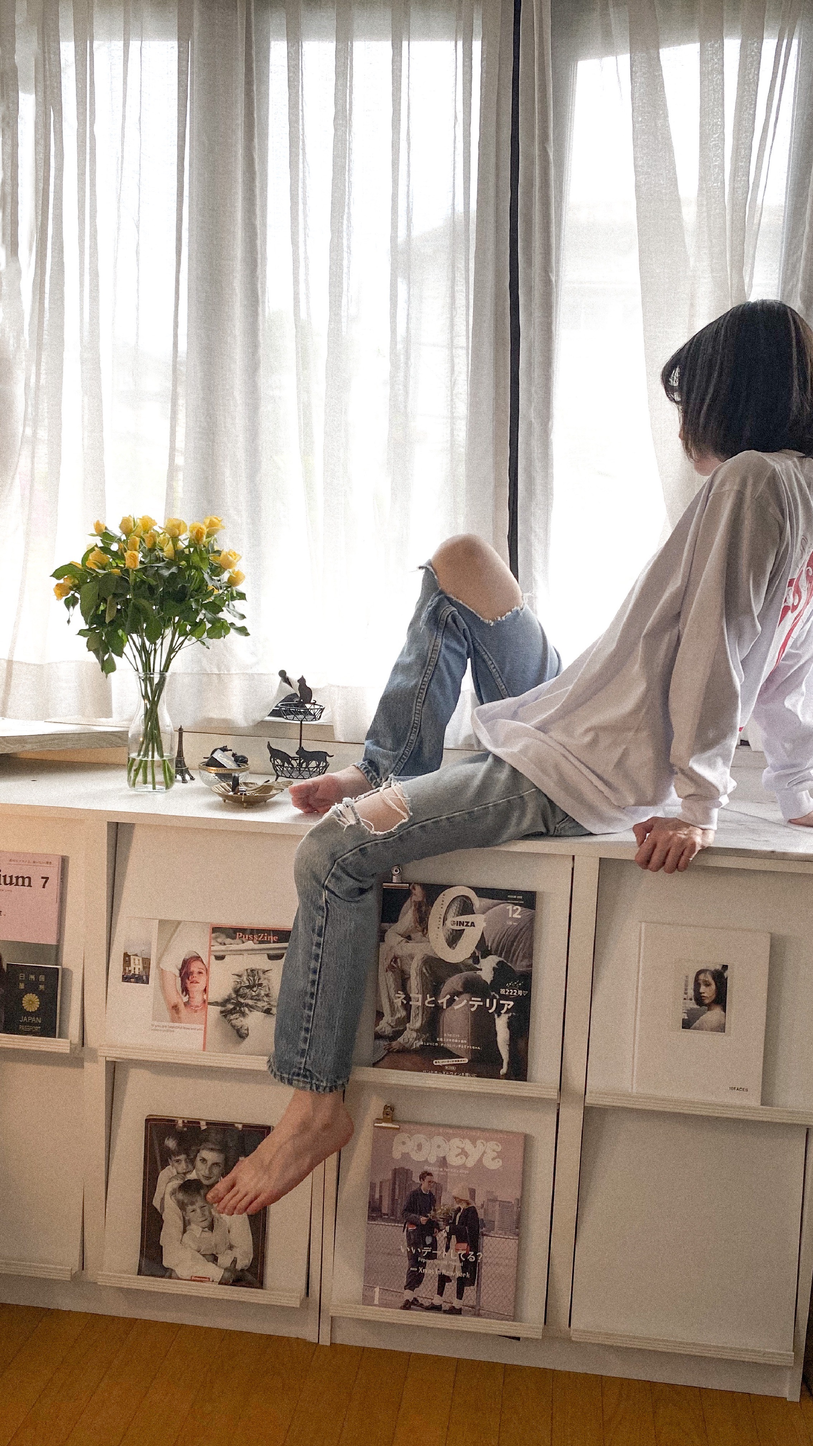
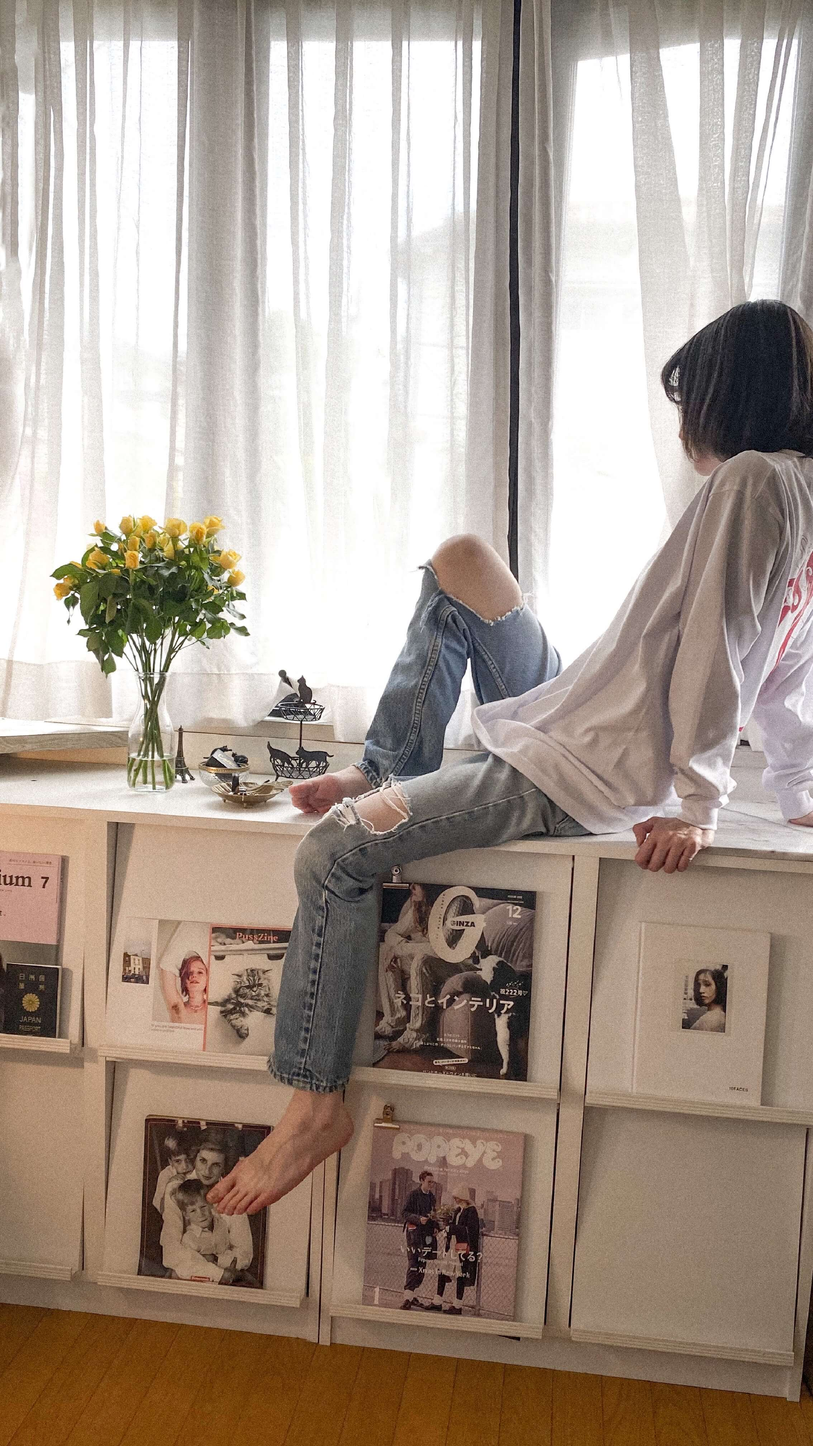
写真サイズ縮小

diff --git a/js/data/top_slider_sp.js b/js/data/top_slider_sp.js
@@ -1,34 +1,34 @@
 var top_slider_sp = [
   { 
     "url": "https://dec16.official.ec/items/32936441",
-    "top": "./data/products/top/sp/jyuroku/dec1.jpg",
-    "photo": "./data/products/tshirts/jyuroku/jyuroku_black_1.png",
+    "top": "./data/products/top/sp/juroku/dec1.jpg",
+    "photo": "./data/products/tshirts/juroku/juroku_black_1.png",
     "season": "2020 SS",
-    "name": "JYUROKU",
+    "name": "JUROKU",
     "price": "4,500JPY"
   },
   {
     "url": "https://dec16.official.ec/items/32936441",
-    "top": "./data/products/top/sp/jyuroku/dec2.jpg",
-    "photo": "./data/products/tshirts/jyuroku/jyuroku_black_1.png",
+    "top": "./data/products/top/sp/juroku/dec2.jpg",
+    "photo": "./data/products/tshirts/juroku/juroku_black_1.png",
     "season": "2020 SS",
-    "name": "JYUROKU",
+    "name": "JUROKU",
     "price": "4,500JPY"
   },
   { 
     "url": "https://dec16.official.ec/items/32936441",
-    "top": "./data/products/top/sp/jyuroku/dec3.jpg",
-    "photo": "./data/products/tshirts/jyuroku/jyuroku_black_1.png",
+    "top": "./data/products/top/sp/juroku/dec3.jpg",
+    "photo": "./data/products/tshirts/juroku/juroku_black_1.png",
     "season": "2020 SS",
-    "name": "JYUROKU",
+    "name": "JUROKU",
     "price": "4,500JPY"
   },
   {
     "url": "https://dec16.official.ec/items/32936441",
-    "top": "./data/products/top/sp/jyuroku/dec4.jpg",
-    "photo": "./data/products/tshirts/jyuroku/jyuroku_black_1.png",
+    "top": "./data/products/top/sp/juroku/dec4.jpg",
+    "photo": "./data/products/tshirts/juroku/juroku_black_1.png",
     "season": "2020 SS",
-    "name": "JYUROKU",
+    "name": "JUROKU",
     "price": "4,500JPY"
   },
   { 

diff --git a/js/data/top_slider_pc.js b/js/data/top_slider_pc.js
@@ -1,18 +1,18 @@
 var top_slider_pc = [
   { 
     "url": "https://dec16.official.ec/items/32936441",
-    "top": "./data/products/top/pc/jyuroku/dec1.jpg",
-    "photo": "./data/products/tshirts/jyuroku/jyuroku_black_1.png",
+    "top": "./data/products/top/pc/juroku/dec1.jpg",
+    "photo": "./data/products/tshirts/juroku/juroku_black_1.png",
     "season": "2020 SS",
-    "name": "JYUROKU",
+    "name": "JUROKU",
     "price": "4,500JPY"
   },
   {
     "url": "https://dec16.official.ec/items/32936441",
-    "top": "./data/products/top/pc/jyuroku/dec2.jpg",
-    "photo": "./data/products/tshirts/jyuroku/jyuroku_black_1.png",
+    "top": "./data/products/top/pc/juroku/dec2.jpg",
+    "photo": "./data/products/tshirts/juroku/juroku_black_1.png",
     "season": "2020 SS",
-    "name": "JYUROKU",
+    "name": "JUROKU",
     "price": "4,500JPY"
   },
   { 

diff --git a/js/data/item.js b/js/data/item.js
@@ -9,15 +9,15 @@
 var item = [
   {
     "url": "https://dec16.official.ec/items/32936441",
-    "photo": "./data/products/tshirts/jyuroku/jyuroku_black_1.png",
-    "name": "JYUROKU SHIRTS",
+    "photo": "./data/products/tshirts/juroku/juroku_black_1.png",
+    "name": "JUROKU SHIRTS",
     "price": "4,500JPY",
     "status": 0
   },
   { 
     "url": "https://dec16.official.ec/items/28338751",
     "photo": "./data/products/tshirts/jessica/jessica_black2.png",
-    "name": "JESSICA ",
+    "name": "JESSICA SHIRTS",
     "price": "5,500JPY",
     "status": 1
   },
